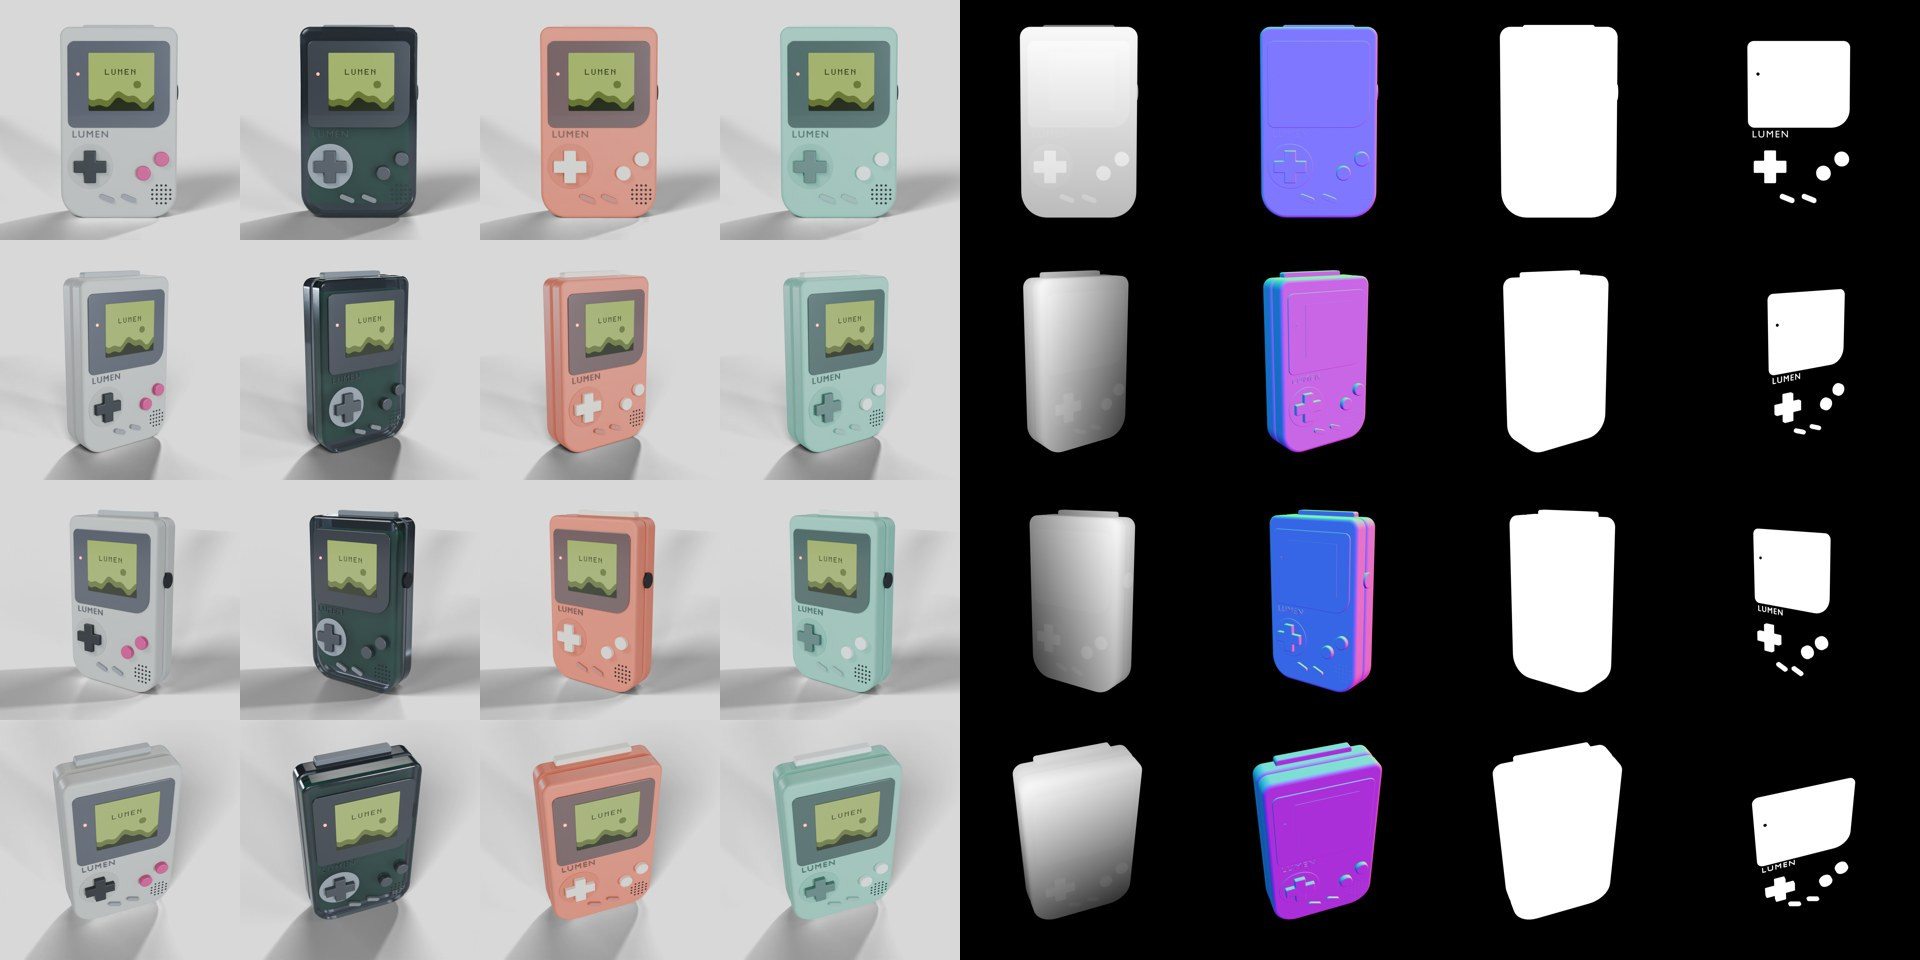
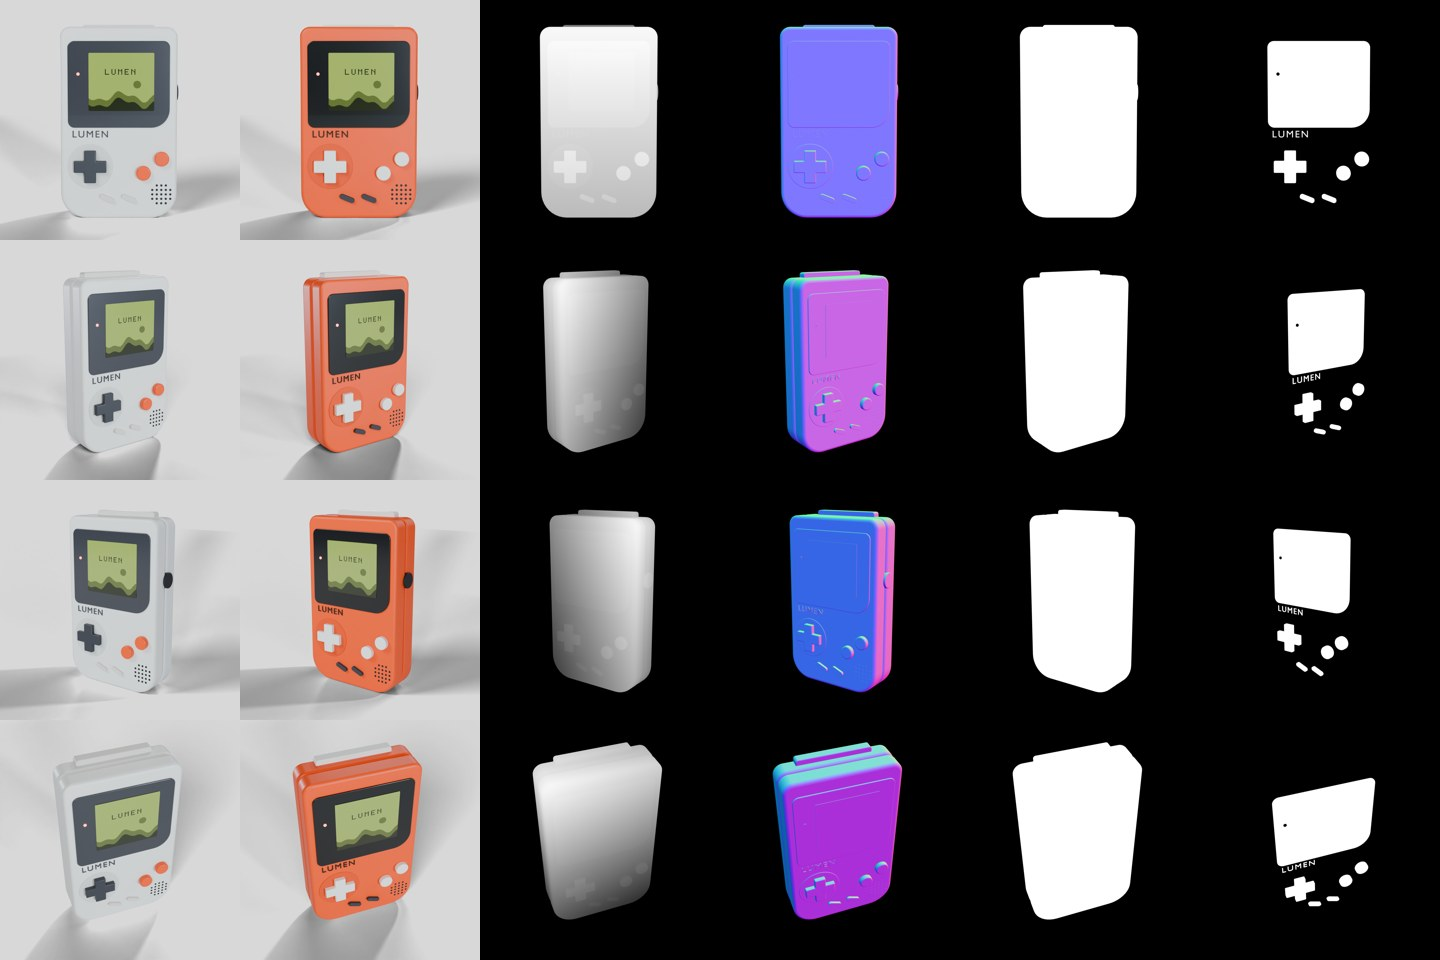
LUMEN in two editions, white and the brand's signal orange; model comparison in the README; SDXL Lightning for the local backend

diff --git a/fixtures/lumen/build.py b/fixtures/lumen/build.py
@@ -20,15 +20,12 @@ W, H, D = 0.090, 0.148, 0.030          # body
 R_TOP, R_BOTTOM = 0.008, 0.020         # corner radii: soft top, generous bottom
 SEAM = 0.0005                          # gap between front and back shells
 
+# two editions, in the meridian palette: a white one, and one in the brand's signal orange (#FF5E2C)
 COLORWAYS = {
-    'arcade-grey': dict(body=(0.55, 0.54, 0.51), rough=0.45, clear=False, ab=(0.62, 0.06, 0.24), dpad=(0.04, 0.04, 0.045),
-                        pills=(0.30, 0.30, 0.33), bezel=(0.10, 0.10, 0.12), screen=(0.55, 0.62, 0.30), cart=(0.45, 0.45, 0.47)),
-    'clear-smoke': dict(body=(0.28, 0.30, 0.34), rough=0.08, clear=True, ab=(0.08, 0.08, 0.09), dpad=(0.08, 0.08, 0.09),
-                        pills=(0.20, 0.20, 0.22), bezel=(0.05, 0.05, 0.06), screen=(0.45, 0.70, 0.75), cart=(0.20, 0.21, 0.24)),
-    'sunset-coral': dict(body=(0.85, 0.22, 0.14), rough=0.5, clear=False, ab=(0.96, 0.90, 0.78), dpad=(0.96, 0.90, 0.78),
-                         pills=(0.55, 0.22, 0.18), bezel=(0.16, 0.10, 0.10), screen=(0.95, 0.70, 0.40), cart=(0.96, 0.90, 0.78)),
-    'mint': dict(body=(0.25, 0.62, 0.48), rough=0.5, clear=False, ab=(0.98, 0.98, 0.96), dpad=(0.12, 0.20, 0.18),
-                 pills=(0.30, 0.50, 0.44), bezel=(0.08, 0.12, 0.11), screen=(0.70, 0.85, 0.55), cart=(0.98, 0.98, 0.96)),
+    'white': dict(body=(0.8469, 0.8308, 0.807), rough=0.42, clear=False, ab=(1.0, 0.1119, 0.0252), dpad=(0.0545, 0.0545, 0.0666),
+                  pills=(0.7454, 0.7011, 0.6654), bezel=(0.0545, 0.0545, 0.0666), screen=(0.55, 0.62, 0.30), cart=(0.7454, 0.7011, 0.6654)),
+    'signal-orange': dict(body=(1.0, 0.1119, 0.0252), rough=0.45, clear=False, ab=(0.956, 0.956, 0.9387), dpad=(0.956, 0.956, 0.9387),
+                          pills=(0.0545, 0.0545, 0.0666), bezel=(0.0103, 0.0103, 0.0116), screen=(0.55, 0.62, 0.30), cart=(0.8469, 0.8308, 0.807)),
 }
 
 
@@ -301,7 +298,7 @@ def export_product(folder):
     """Write LUMEN the way the pipeline takes any product: product.glb plus product.json."""
     os.makedirs(folder, exist_ok=True)
     reset()
-    build('arcade-grey')
+    build('white')
     bpy.ops.export_scene.gltf(filepath=os.path.join(folder, 'product.glb'), export_apply=True)
     part = {'body': 'body', 'well': None, 'bezel': 'bezel', 'screen': 'screen', 'dpad': 'dpad', 'ab': 'ab',
             'pills': 'pills', 'cart': 'cart'}
@@ -326,7 +323,7 @@ def export_product(folder):
         'size_mm': [90, 148, 30],
         'facts': ['A handheld game console with a retro design', 'Backlit square screen', 'D-pad, A and B buttons, Start and Select',
                   'Cartridge slot on the back', 'Volume wheel on the right side', 'Built-in speaker',
-                  'Four colorways: Arcade Grey, Clear Smoke, Sunset Coral and Mint'],
+                  'Two colorways: White and Signal Orange'],
         'protected_materials': ['bezel', 'screen', 'dpad', 'ab', 'pills'],
         'colorways': colorways,
     }
@@ -339,13 +336,13 @@ if '--export' in args:
     export_product(os.path.abspath(args[args.index('--export') + 1]))
     sys.exit(0)
 front = '--front' in args
-names = [a for a in args if not a.startswith('--')] or ['arcade-grey']
+names = [a for a in args if not a.startswith('--')] or ['white']
 if names == ['all']:
     names = list(COLORWAYS)
 for cw in names:
     reset()
     build(cw)
-    if cw == 'arcade-grey' and not front:
+    if cw == 'white' and not front:
         bpy.ops.wm.save_as_mainfile(filepath=os.path.join(OUT, 'lumen.blend'))
         bpy.ops.export_scene.gltf(filepath=os.path.join(OUT, 'lumen.glb'), export_apply=True)
     studio(front)

diff --git a/pipeline/generate.py b/pipeline/generate.py
@@ -90,6 +90,11 @@ def lock_protected(img, passes, view, colorway, feather=1.5):
     return Image.composite(ref, img, mask)
 
 
+FAST = '--quality' not in sys.argv
+SAMPLING = {True: {'steps': 8, 'cfg': 1.5, 'sampler_name': 'euler', 'scheduler': 'sgm_uniform'},
+            False: {'steps': 30, 'cfg': 5.0, 'sampler_name': 'dpmpp_2m_sde', 'scheduler': 'karras'}}
+
+
 # ---------- backends ----------
 def local_sdxl(passes, view, colorway, scene, spec, seed):
     d = os.path.join(passes, view)
@@ -117,11 +122,15 @@ def local_sdxl(passes, view, colorway, scene, spec, seed):
         # start from the studio reference, so the colourway survives; the ControlNets hold the shape
         'latent': {'class_type': 'VAEEncode', 'inputs': {'pixels': ['img_start', 0], 'vae': ['ckpt', 2]}},
         'sample': {'class_type': 'KSampler', 'inputs': {
-            'model': ['ckpt', 0], 'seed': seed, 'steps': 30, 'cfg': 5.0, 'sampler_name': 'dpmpp_2m_sde', 'scheduler': 'karras',
+            'model': ['model', 0], 'seed': seed, **SAMPLING[FAST],
             'positive': ['apply_normal', 0], 'negative': ['apply_normal', 1], 'latent_image': ['latent', 0], 'denoise': 0.82}},
         'decode': {'class_type': 'VAEDecode', 'inputs': {'samples': ['sample', 0], 'vae': ['ckpt', 2]}},
         'save': {'class_type': 'SaveImage', 'inputs': {'images': ['decode', 0], 'filename_prefix': 'cad-to-shelf/local'}},
     }
+    # SDXL Lightning: the same graph in 8 steps instead of 30 (--quality for the slow, full sampler)
+    g['model'] = ({'class_type': 'LoraLoaderModelOnly', 'inputs': {
+        'model': ['ckpt', 0], 'lora_name': 'sdxl_lightning_8step_lora.safetensors', 'strength_model': 1.0}} if FAST else
+        {'class_type': 'ModelSamplingDiscrete', 'inputs': {'model': ['ckpt', 0], 'sampling': 'eps', 'zsnr': False}})
     return run(g), pos
 
 

diff --git a/README.md b/README.md
@@ -10,7 +10,7 @@ A probabilistic decision layer (Jev) plans the creative and routes every asset: 
 - [x] The product, built in Blender from code: exact geometry, four colorways
 - [x] Control passes from any product: depth, normals, product mask, protected-parts mask, beauty per colorway
 - [ ] Creative planning with probabilities (Jev)
-- [ ] Photoreal generation in ComfyUI with ControlNet
+- [x] Photoreal generation in ComfyUI: local SDXL + ControlNet, and Gemini image models compared
 - [ ] Quality routing by confidence (Jev), compared with a VLM judge and a human
 - [ ] Copy from a fixed spec sheet
 - [ ] Report: cost per approved asset, calibration, latency
@@ -65,13 +65,35 @@ the product, and a faint micro-surface bump on every material. `product.json` ca
 `fixtures/lumen/build.py` builds LUMEN at real size (90 x 148 x 30 mm) and renders a studio shot.
 
 ```bash
-blender -b -P fixtures/lumen/build.py -- arcade-grey        # one colorway, also saves out/lumen.blend and out/lumen.glb
+blender -b -P fixtures/lumen/build.py -- white              # one colorway, also saves out/lumen.blend and out/lumen.glb
 blender -b -P fixtures/lumen/build.py -- all                # every colorway
-blender -b -P fixtures/lumen/build.py -- arcade-grey --front #
+blender -b -P fixtures/lumen/build.py -- white --front      #
 blender -b -P fixtures/lumen/build.py -- --export products/lumen  # as a pipeline product orthographic front view
 ```
 
-Colorways: `arcade-grey`, `clear-smoke`, `sunset-coral`, `mint`. Every part has an object index
+Colorways, in the meridian palette: `white`, and `signal-orange` in the brand's own orange (#FF5E2C). Every part has an object index
 (1 body, 2 screen, 3 controls, 4 cartridge, 5 internals) for the product masks later on.
 
-![The four colorways](docs/img/colorways.jpg)
+
+## Brand: meridian
+
+`brands/meridian/` holds the brand as data: palette, fonts (Inter Tight and Space Mono, OFL), logo, copy, scenes
+and templates. `pipeline/layout.py` sets real type on the product images in three templates: `poster` (portrait,
+story, square), `spread` (landscape) and `specsheet`. Another brand is another folder.
+
+## Model comparison
+
+The same view, scene and colorway through four image backends, with time and cost per image
+(`runs/<product>/generate/ledger.jsonl`):
+
+![Model comparison](docs/img/model-comparison.jpg)
+
+| Backend | Cost / image | Time | Notes |
+|---|---|---|---|
+| local-sdxl (RealVisXL + ControlNet) | free | ~10 min on a 6 GB laptop GPU | the camera is exact, so the protected parts can be locked back; invents detail elsewhere |
+| nano-banana | US$ 0.039 | ~17 s | faithful to the product, looks rendered |
+| nano-banana-2 | US$ 0.084 | ~19 s | faithful and photographic: the best value |
+| nano-banana-pro | US$ 0.161 | ~30 s | the most photographic, marginally |
+
+All three Gemini models warm a grey product towards beige under sunset light: a colour check belongs in the routing stage.
+The project continues on local SDXL, free, with the layout as the goal.
